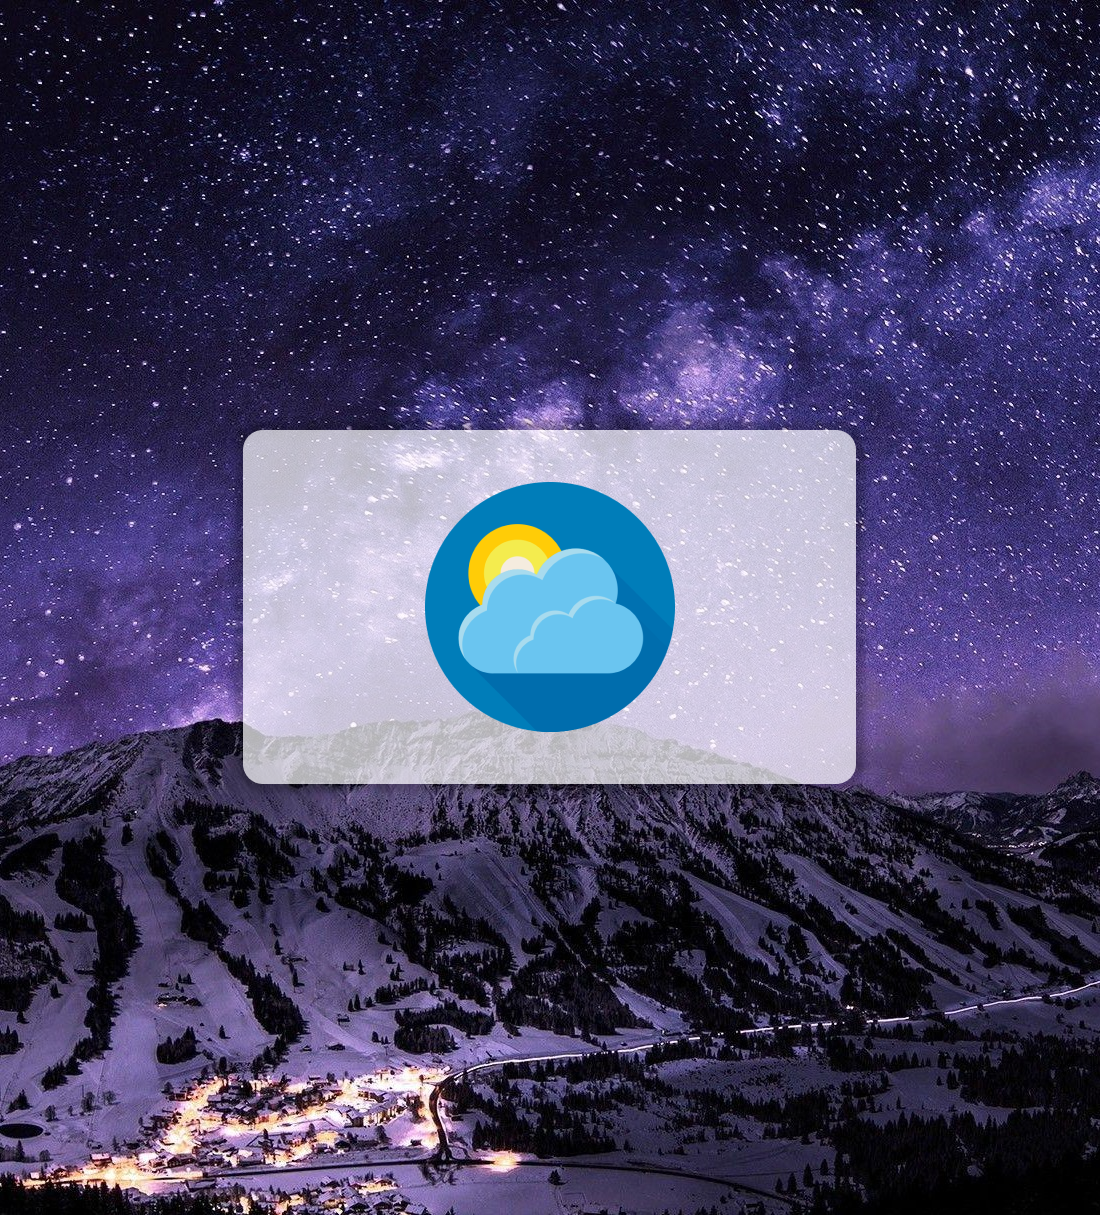
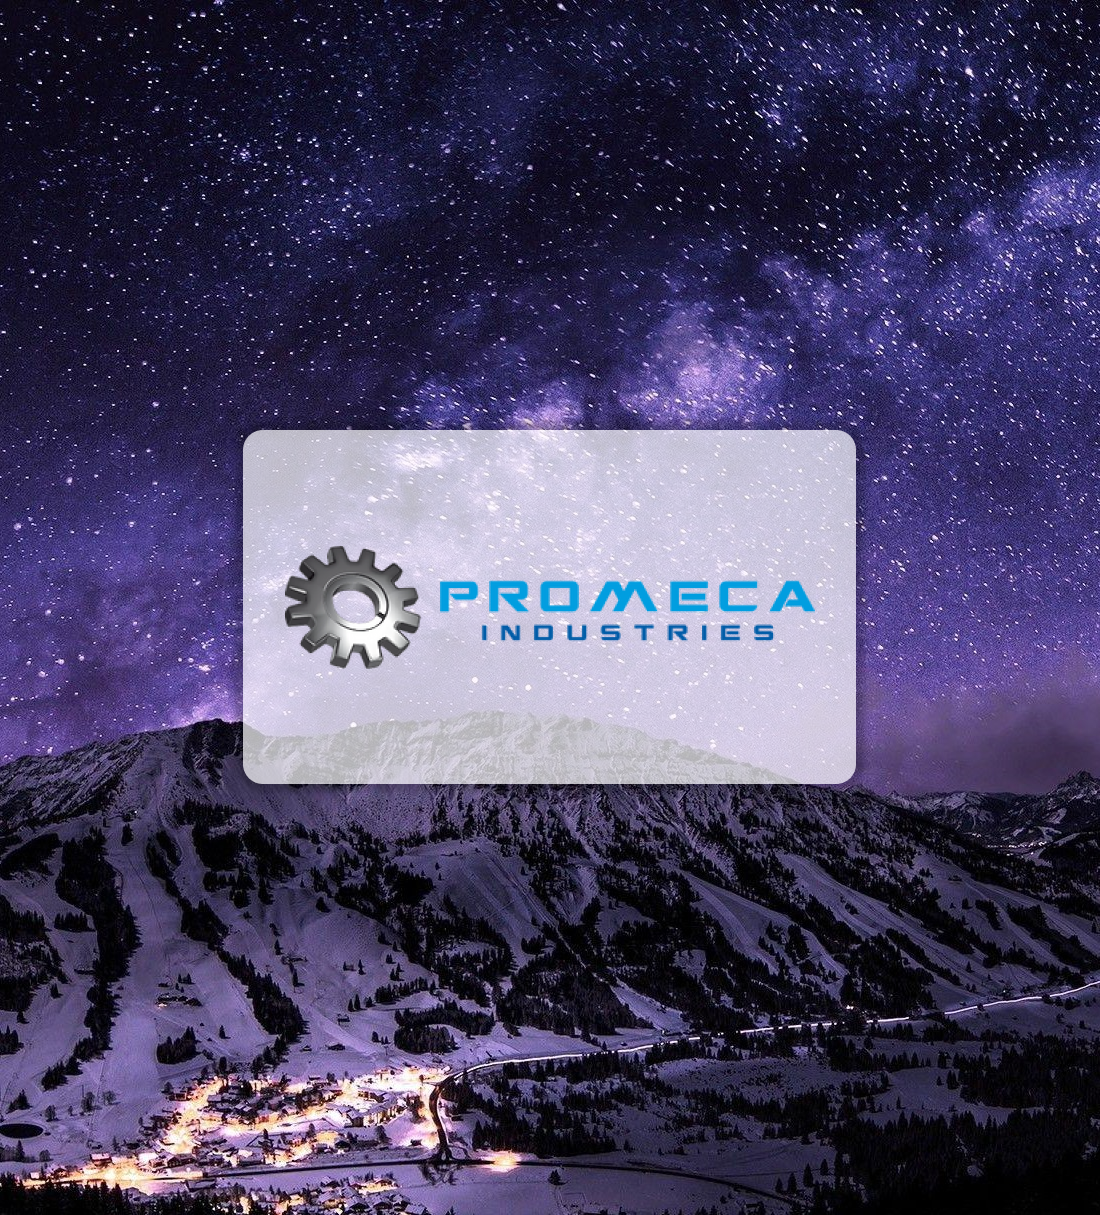
Changer meteo par promeca

Changed region(s): [[0.2473, 0.3959, 0.7418, 0.6091]]

diff --git a/promeca.html b/promeca.html
@@ -1,0 +1,76 @@
+<!DOCTYPE html>
+<html lang="fr">
+
+<head>
+    <meta charset="UTF-8">
+    <meta name="viewport" content="width=device-width, initial-scale=1.0">
+    <link rel="icon" href="assets/images/FJ.png" type="image/x-icon">
+    <link rel="shortcut icon" href="assets/images/FJ.png" type="image/x-icon">
+    <link rel="stylesheet" href="./assets/style/projet.css" />
+    <title>Projet Promeca Industries</title>
+</head>
+
+<body>
+    <h1 class="animated-Left soulignage">Promeca Industries</h1>
+    <section class="container">
+        <h2 class="animated-Bottom">Présentation de l'entreprise</h2>
+        <p>
+            Promeca Industries est une société spécialisée dans la chaudronnerie, la serrurerie, la tuyauterie, la
+            métallurgie et la maintenance industrielle.
+
+            L'entreprise est située à Bédarrides, dans le Vaucluse (84), et intervient dans toute la France.
+
+            Promeca Industries propose une large gamme de services à ses clients, notamment :
+            <ul>
+                <li>Études et conception de projets</li>
+                <li>Fabrication de pièces métalliques</li>
+                <li>Montage et installation d'équipements</li>
+                <li>Maintenance et réparation</li>
+                <li>Dépannage</li>
+            </ul>
+        </p>
+    </section>
+    <section class="container">
+        <h2 class="animated-Bottom">Objectif</h2>
+        <p>
+            L'objectif est de créer un logiciel qui permet au client de pouvoir organiser et gérer les interventions de ses techniciens sur le terrain. Le logiciel doit permettre de : 
+        </p>          
+        <ul>
+            <li>Planifier les interventions</li>
+            <li>Assigner les techniciens aux missions</li>
+            <li>Assignier les véhicules et les outils aux missions</li>
+            <li>Gérer les congés, les arrêts maladie et autres absences</li>
+            <li>Connaître les qualifications de chaque technicien et leurs dates d'expiration</li>
+        </ul>
+    </section>
+    <section class="container">
+        <h2 class="animated-Bottom">Menu principal</h2>
+        <p>
+            Dans le menu le client peut accéder : 
+        </p>
+        <ul>
+            <li>Calendrier : Permet de visualiser les interventions sous forme de planning</li>
+            <li>Type de tâche : Création, modification et suppression de plusieurs types de tâches (exemples : installation d'équipement, réparation, etc.)</li>
+            <li>qualifications : Permet de consulter les qualifications dont l'entreprise a besoin et le nombre de techniciens possédant chaque qualification</li>
+            <li>Personnel : Permet de consulter la liste du personnel avec les qualifications de chacun et leurs dates de fin de validité</li>
+            <li>Écheance qualification : Affiche une liste des personnels dont les qualifications sont arrivées à terme ou qui vont bientôt expirer</li>
+            <li>Matériel : Permet d'enregistrer tous les véhicules et outils</li>
+        </ul>
+        <img src="assets/images/Projet-BTS/promeca-1.png" alt="Menu">
+    </section>
+    <section class="container">
+        <h2 class="animated-Bottom">Calendrier</h2>
+        <p>
+            Le calendrier permet de visualiser les interventions sous forme de planning. Les interventions sont représentées par des tâches de différentes couleurs. 
+        </p>
+        <img src="assets/images/Projet-BTS/promeca-2.png" alt="Calendrier">
+    </section>
+    <section class="container">
+        <h2 class="animated-Bottom">Planifier les interventions</h2>
+        <p>
+            Pour planifier une intervention, le client doit sélectionner une date et un type de tâche. Il peut également ajouter des informations supplémentaires, les techniciens et les véhicules assignés à la mission.
+        </p>
+        <img src="assets/images/Projet-BTS/promeca-3.png" alt="Type de tâche">
+</body>
+
+</html>

diff --git a/index.html b/index.html
@@ -303,9 +303,9 @@
                 <img src="./assets/images/landscape-5.png" alt="image" class="card__img">
 
                 <div class="card__data">
-                    <span class="card__description">Projet personnel</span>
-                    <h2 class="card__title">Weather</h2>
-                    <a href="https://firasjemaa.github.io/weathers/" target="_blank" class="card__button">Voir plus</a>
+                    <span class="card__description">CPA Gestion</span>
+                    <h2 class="card__title">Promeca Industries</h2>
+                    <a href="./promeca.html" target="_blank" class="card__button">Voir plus</a>
                 </div>
             </article>
 

diff --git a/agicap.html b/agicap.html
@@ -27,7 +27,7 @@
         <ul>
             <li>Création du fichier Excel</li>
             <li>Enregister le fichier en local et l'envoyer sur le serveur en SFTP</li>
-            <li>Planifier une tâche automatiser</li>
+            <li>Planifier une tâche automatisée</li>
         </ul>
     </section>
     <section class="container">
